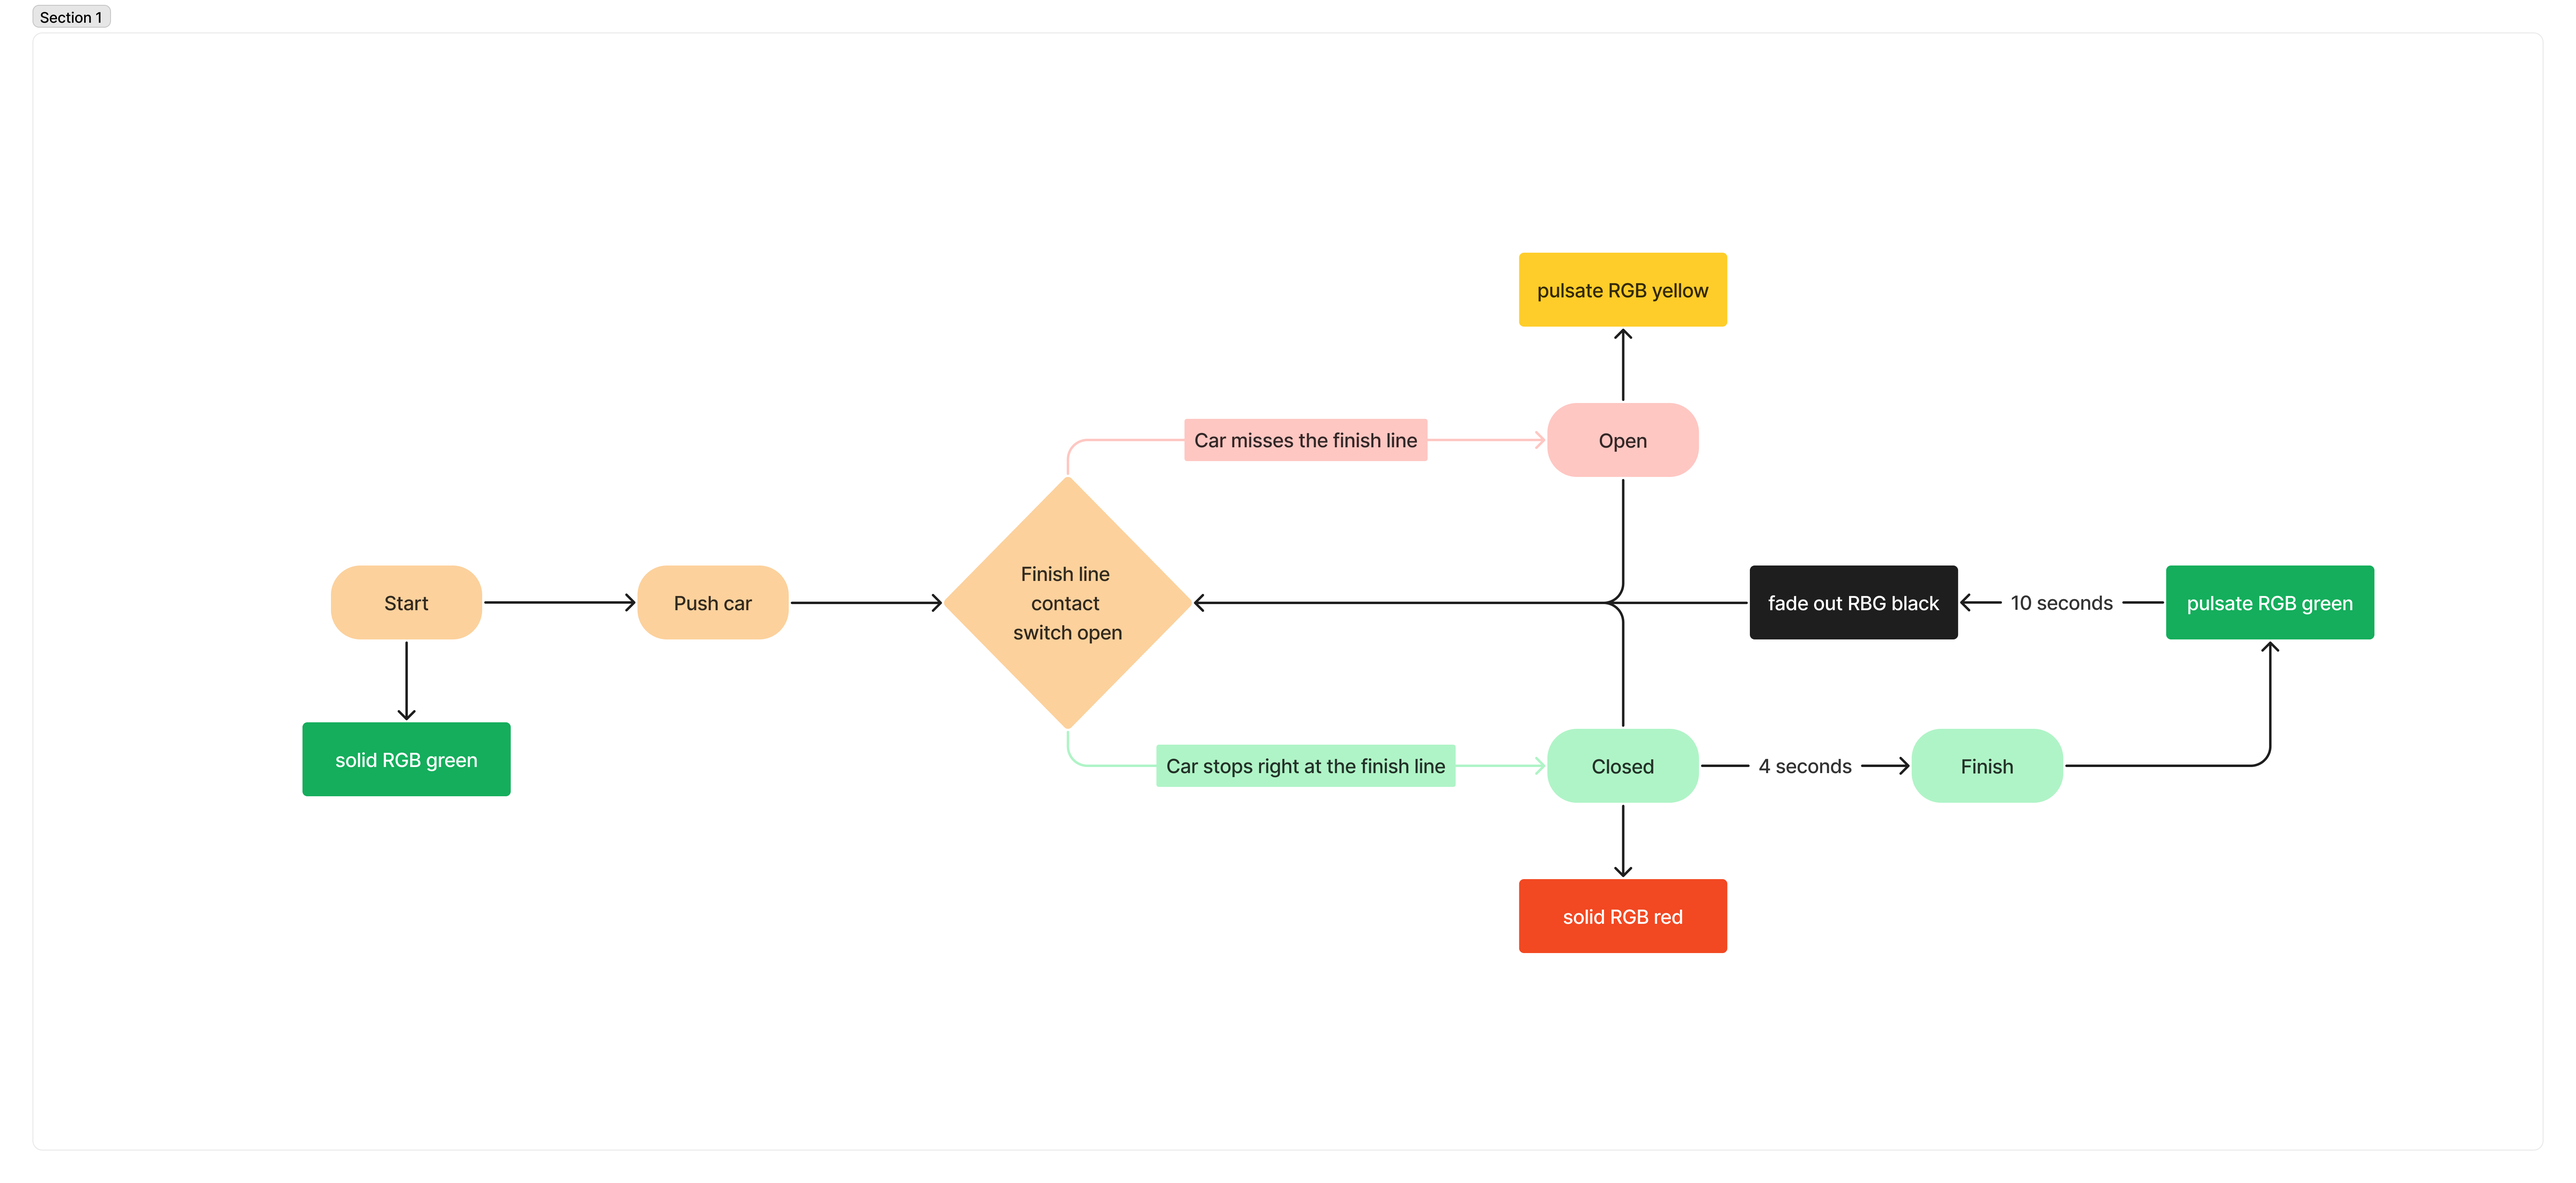
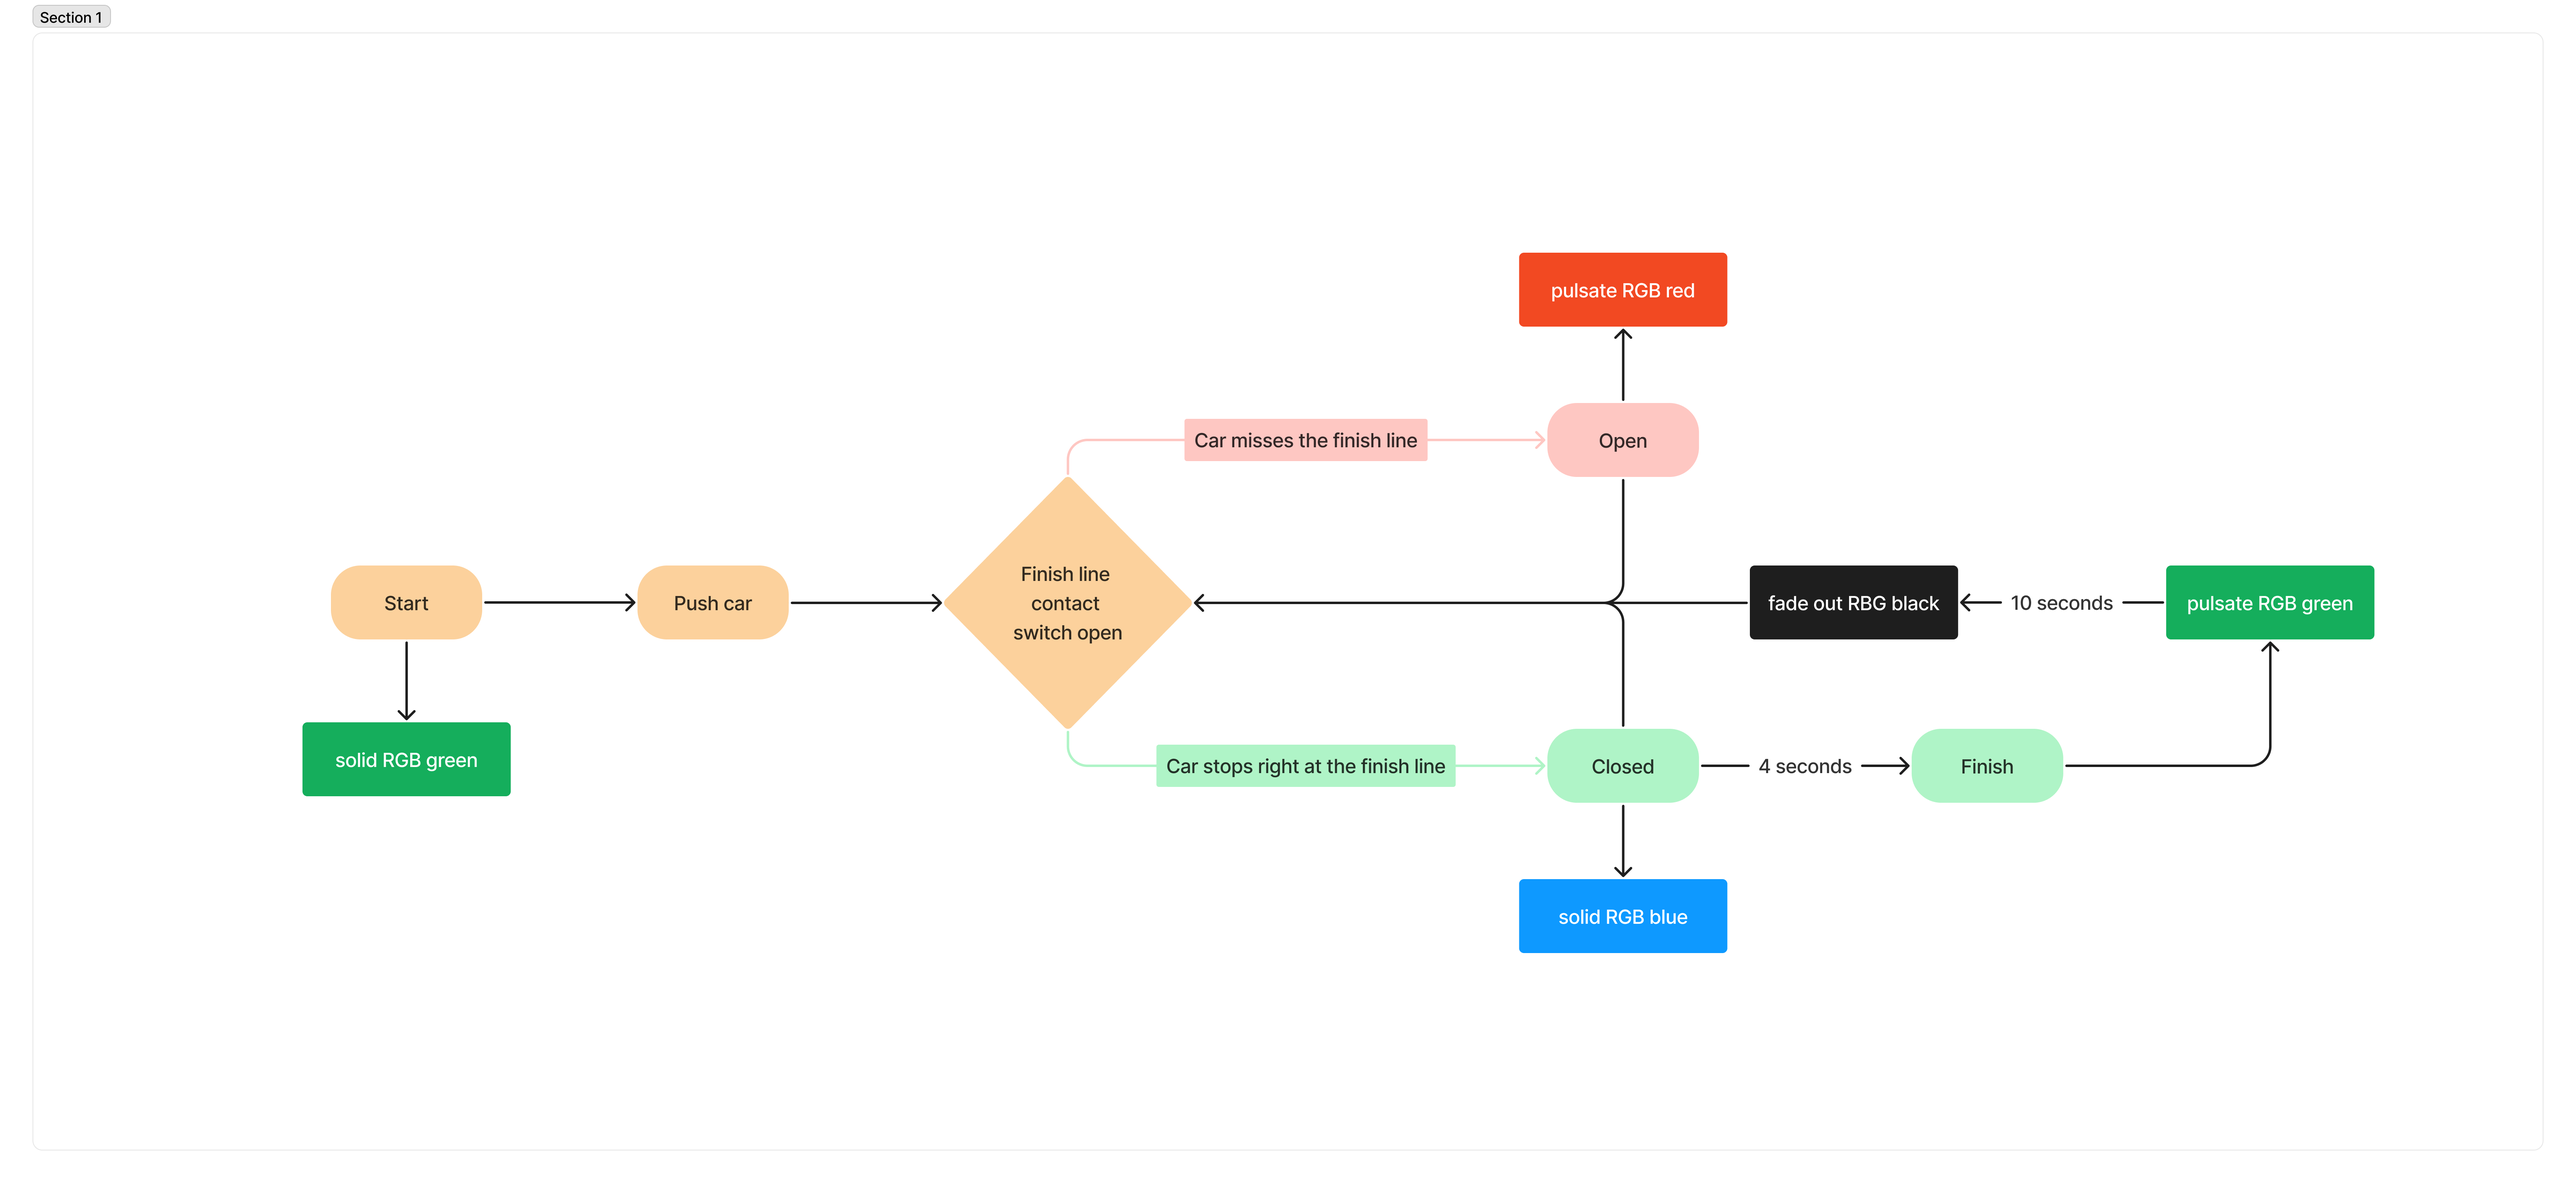
update

Changed region(s): [[0.5625, 0.7188, 0.6875, 0.8125], [0.5625, 0.1875, 0.6875, 0.2812]]

diff --git a/Assignment 1/Final_code.py b/Assignment 1/Final_code.py
@@ -1,0 +1,111 @@
+# change RGB LED colors with digital input and time using state logic
+# 4 states are implemented as shown:
+# 'START'  -> turns on RGB green
+# 'OPEN'   -> pulsate RGB yellow
+# 'CLOSED' -> fade in RGB red if digital input is closed
+# 'FINISH' -> fade in RGB green 4 seconds after 'CLOSED' state
+#             fade out RGB to black after 1 seconds
+
+import os, sys, io
+import M5
+from M5 import *
+from hardware import *
+import time
+
+rgb = None
+state = 'START'
+state_timer = 0
+
+def setup():
+  global rgb, input_pin
+  M5.begin()
+  
+  # custom RGB setting using pin G2 (M5 AtomS3 bottom connector) and 10 LEDs:
+  rgb = RGB(io=2, n=20, type="SK6812")
+  
+  # initialize pin G39 (M5 PortABC Extension red connector) as input:
+  input_pin = Pin(39, mode=Pin.IN, pull=Pin.PULL_UP)
+  
+  # turn on RGB green and wait 3 seconds:
+  if (state == 'START'):
+    print('start with RGB green..')
+    rgb.fill_color(get_color(0, 255, 0))
+    time.sleep(3)  
+    check_input()
+
+def loop():
+  global state, state_timer
+  M5.update()
+      
+  if (state == 'OPEN'):
+    print('pulsate yellow..')
+    # fade in RGB yellow:
+    for i in range(100):
+      rgb.fill_color(get_color(0, 0, i))
+      time.sleep_ms(20)
+    # fade out RGB blue:
+    for i in range(100):
+      rgb.fill_color(get_color(0, 0, 100-i))
+      time.sleep_ms(20)
+    check_input()
+    
+  elif (state == 'CLOSED'):
+    # if less than 1 seconds passed since change to 'CLOSED':
+    if(time.ticks_ms() < state_timer + 1000):
+      print('fade in yellow..')
+      for i in range(100):
+        rgb.fill_color(get_color(i, i, 0))
+        time.sleep_ms(20)
+    # if more than 5 seconds passed since change to 'CLOSED':
+    elif(time.ticks_ms() > state_timer + 5000):
+      state = 'FINISH'
+      print('change to', state)
+      # save current time in milliseconds:
+      state_timer = time.ticks_ms()
+      
+  elif (state == 'FINISH'):
+    print('fade from yellow to red..')
+    for i in range(100):
+      rgb.fill_color(get_color(100, 100-i, 0))
+      time.sleep_ms(20)
+      
+    # if 2 seconds passed since change to 'FINISH':
+    if(time.ticks_ms() > state_timer + 2000):
+      print('fade from red to black..') 
+      for i in range(100):
+        rgb.fill_color(get_color(100-i, 0, 0))
+        time.sleep_ms(20)
+      time.sleep(1)
+      check_input()
+
+# check input pin and change state to 'OPEN' or 'CLOSED'
+def check_input():
+  global state, state_timer
+  if (input_pin.value() == 0):
+    if(state != 'CLOSED'):
+      print('change to CLOSED')
+    state = 'CLOSED'
+    # save current time in milliseconds:
+    state_timer = time.ticks_ms()
+  else:
+    if(state != 'OPEN'):
+      print('change to OPEN')
+    state = 'OPEN'
+    
+    
+# convert separate r, g, b values to one rgb_color value:  
+def get_color(r, g, b):
+  rgb_color = (r << 16) | (g << 8) | b
+  return rgb_color
+
+if __name__ == '__main__':
+  try:
+    setup()
+    while True:
+      loop()
+  except (Exception, KeyboardInterrupt) as e:
+    try:
+      from utility import print_error_msg
+      print_error_msg(e)
+    except ImportError:
+      print("please update to latest firmware")
